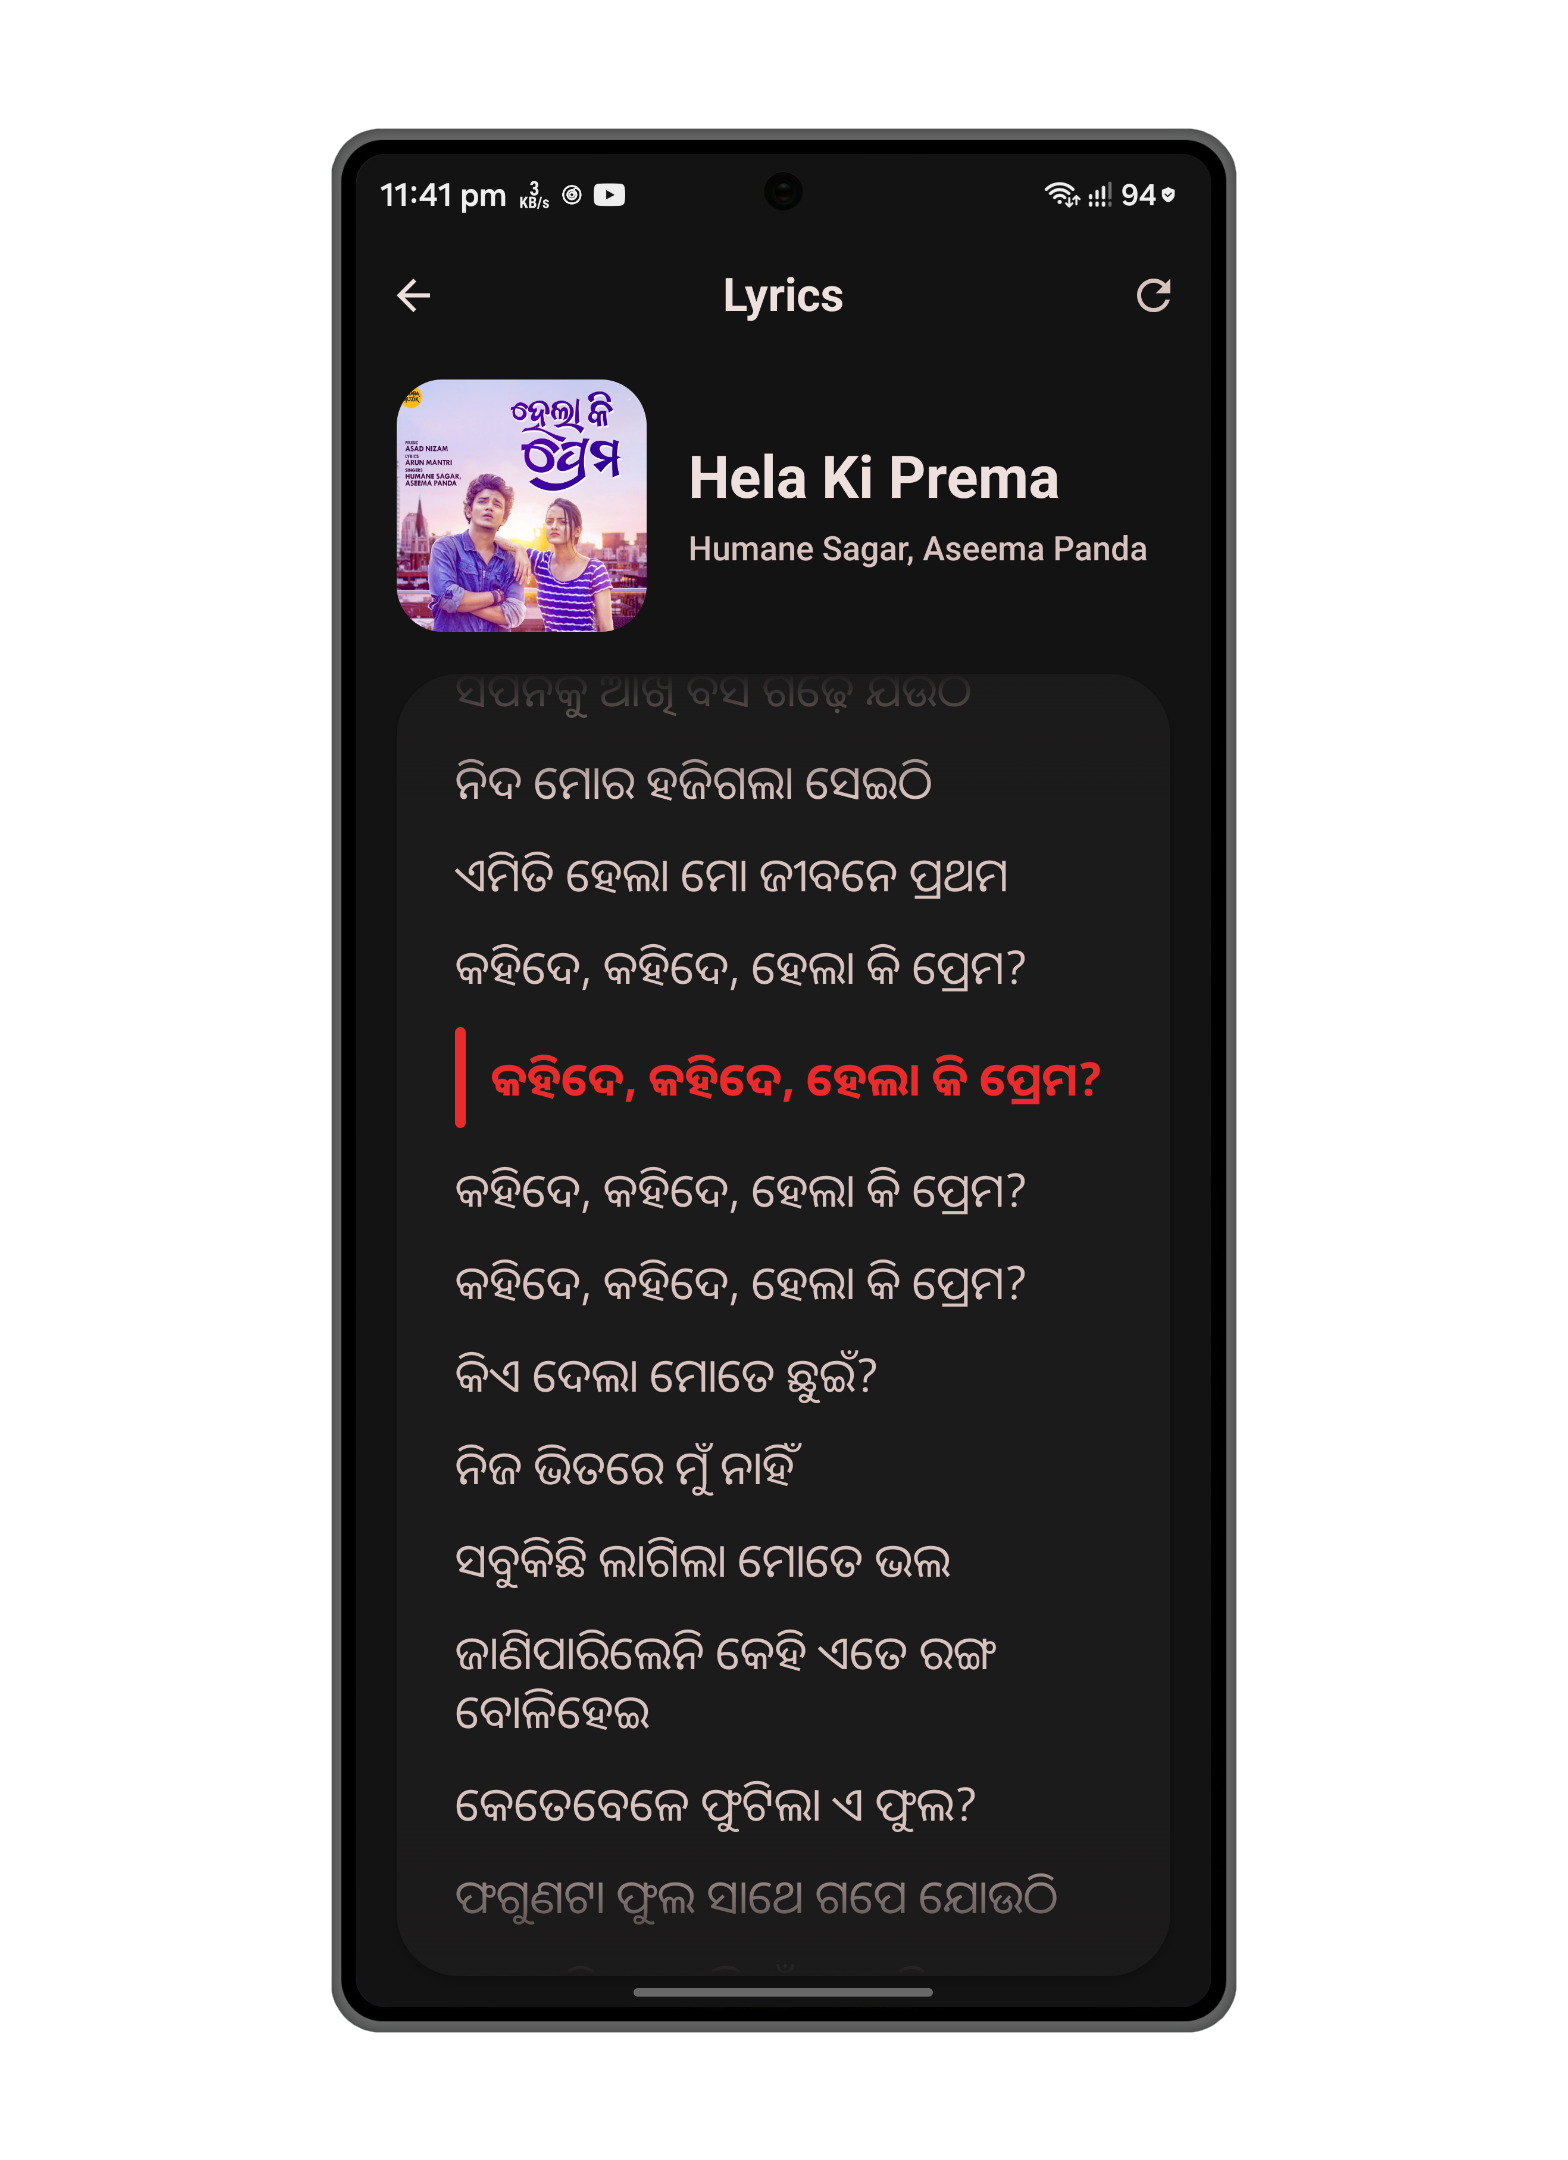
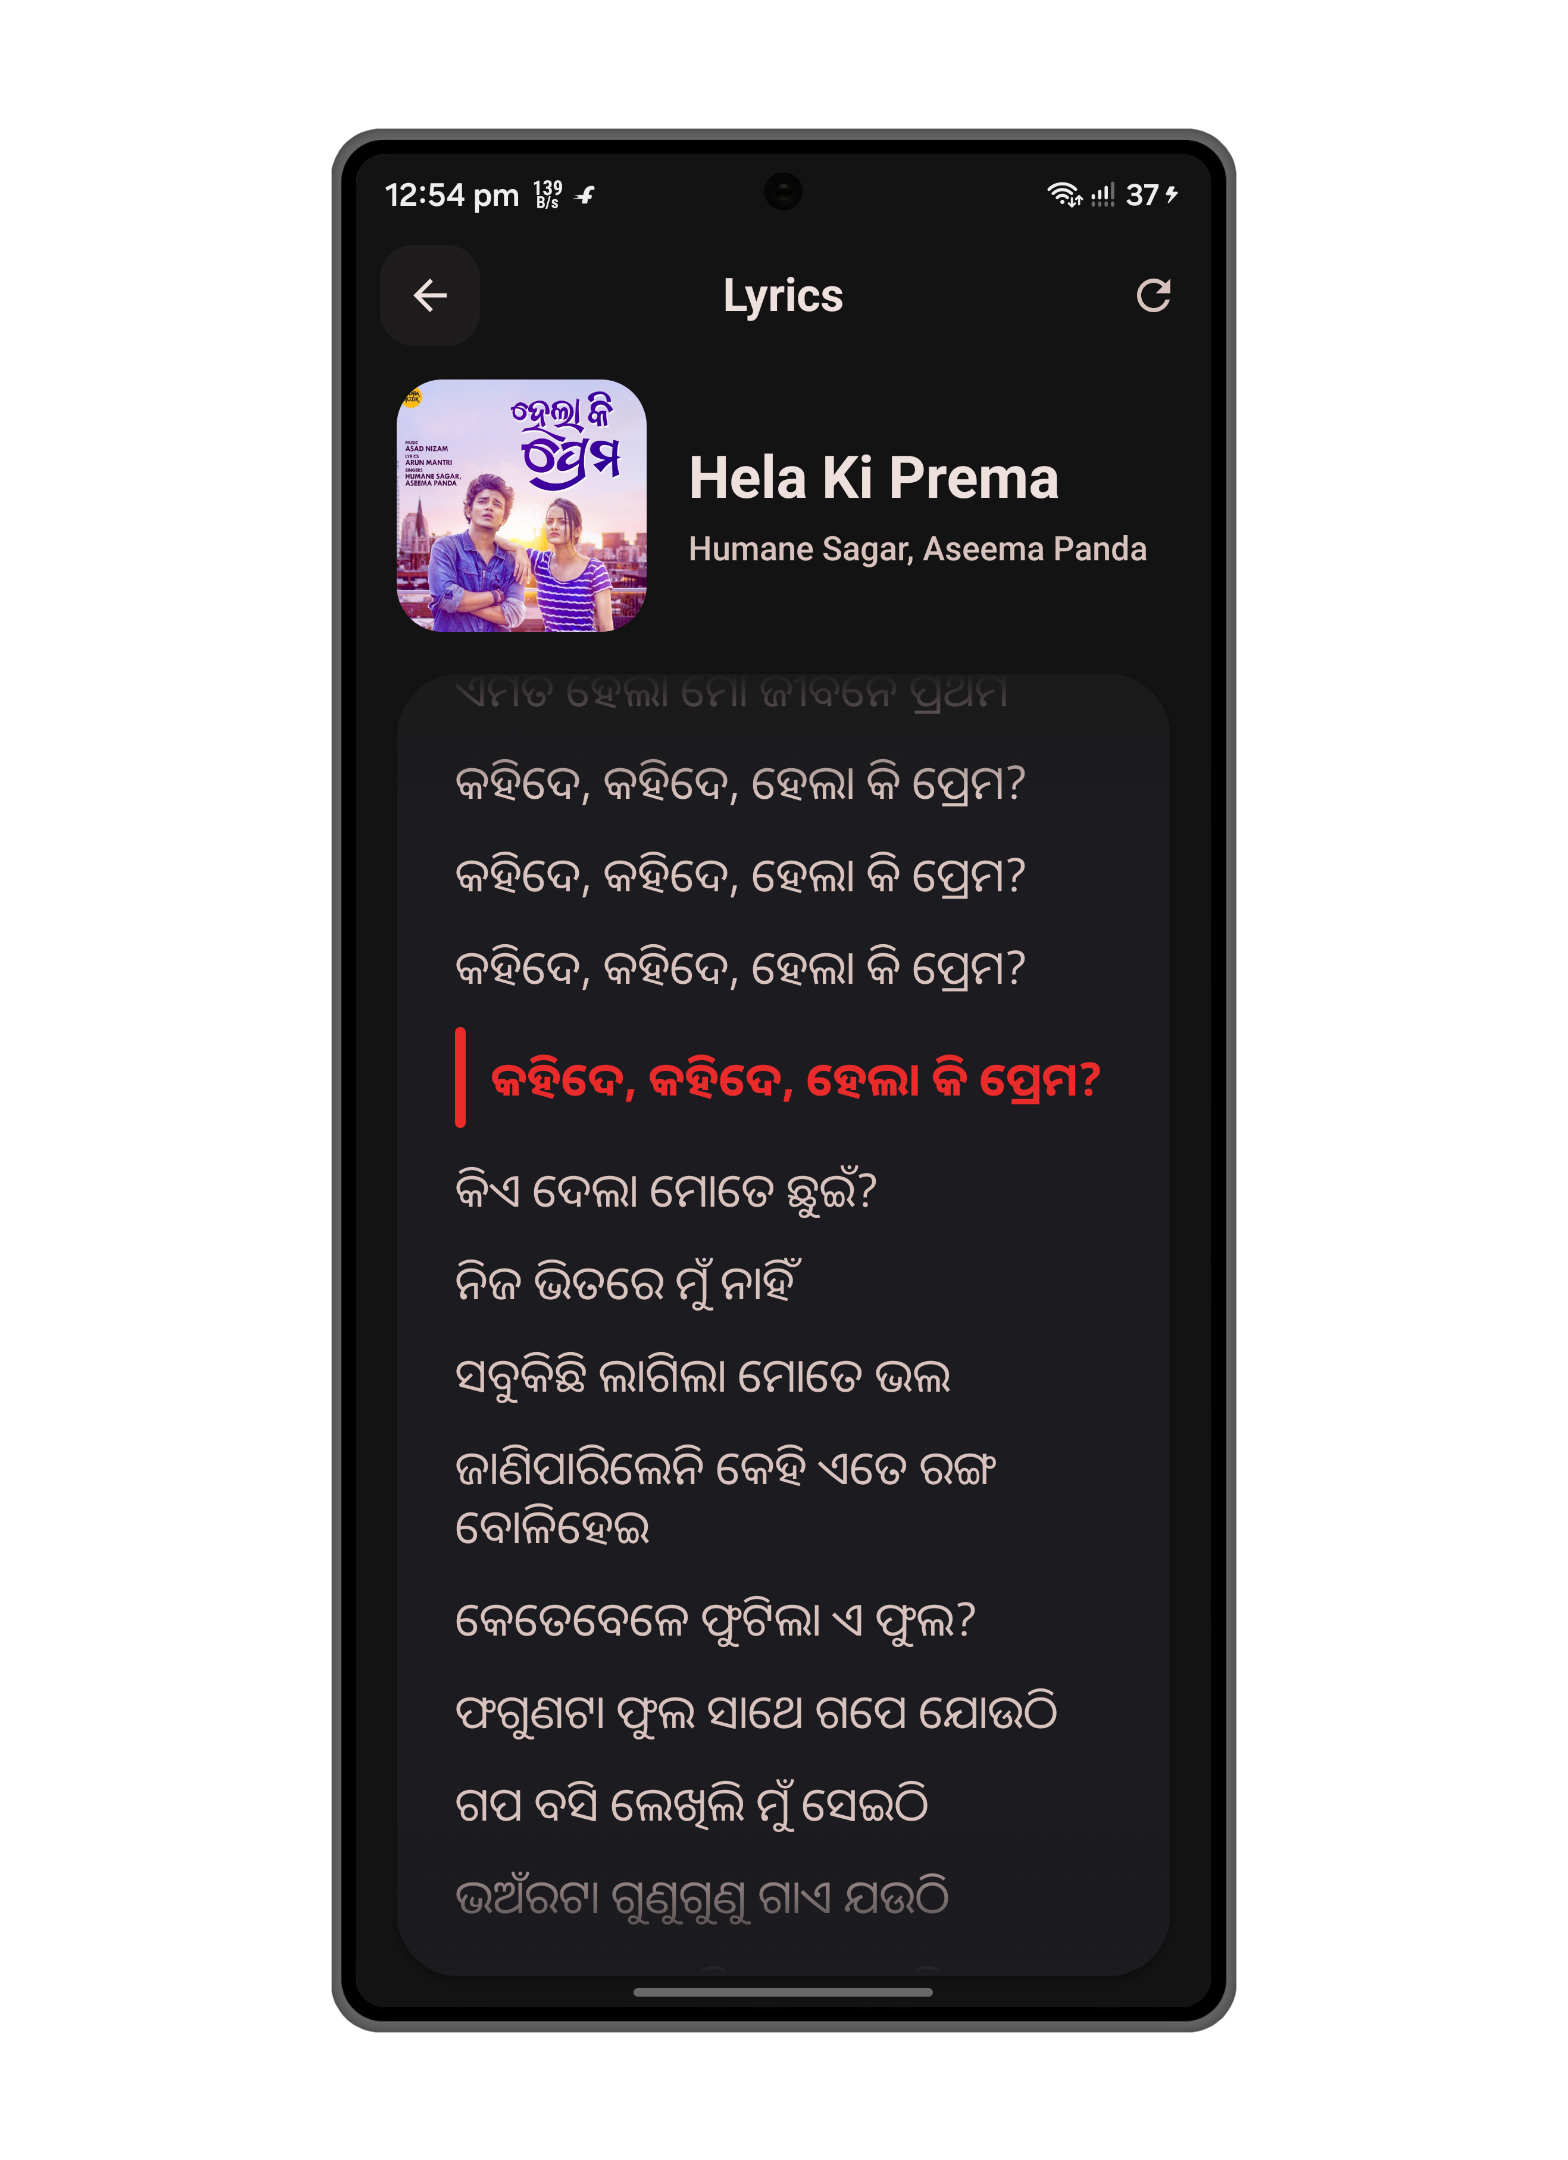
docs: refresh README screenshots and branding
- Refresh README screenshots and app branding assets
- Update documentation and image references

diff --git a/README.md b/README.md
@@ -1,7 +1,7 @@
 <div align="center">
 
 <p align="center">
-  <img src=".github/assets/banner.png" alt="Sonora" width="100%">
+  <img src=".github/assets/sonora_banner.png" alt="Sonora logo" width="70%">
 </p>
 
 A beautiful, privacy-friendly music player for Android, built around your local library.
@@ -52,32 +52,38 @@ streaming service.
   <img src=".github/assets/onboarding-permission.png" width="31%" alt="Sonora permission onboarding">
 </p>
 
+### Home
+
+<p align="center">
+  <img src=".github/assets/home_idle.png" width="31%" alt="Sonora Home with playback idle">
+  <img src=".github/assets/home_play.png" width="31%" alt="Sonora Home during playback">
+  <img src=".github/assets/home_recent.png" width="31%" alt="Sonora recently added and listening history">
+</p>
+
 ### Library
 
 <p align="center">
-  <img src=".github/assets/home.png" width="31%" alt="Sonora home">
   <img src=".github/assets/songs.png" width="31%" alt="Sonora songs">
   <img src=".github/assets/albums.png" width="31%" alt="Sonora albums">
-</p>
-
-<p align="center">
   <img src=".github/assets/artists.png" width="31%" alt="Sonora artists">
 </p>
 
 ### Playback
 
 <p align="center">
-  <img src=".github/assets/now-playing.png" width="31%" alt="Sonora now playing">
+  <img src=".github/assets/nowplaying.png" width="31%" alt="Sonora Now Playing screen">
+  <img src=".github/assets/nowplaying_more.png" width="31%" alt="Sonora Now Playing additional controls">
   <img src=".github/assets/lyrics.png" width="31%" alt="Sonora lyrics">
 </p>
 
-### Personalization
+### Settings & Personalization
 
 <p align="center">
   <img src=".github/assets/settings.png" width="31%" alt="Sonora settings">
-  <img src=".github/assets/settings-synamic-color.png" width="31%" alt="Sonora dynamic color settings">
-  <img src=".github/assets/settings-about.png" width="31%" alt="About page">
+  <img src=".github/assets/permissions.png" width="31%" alt="Sonora permission management">
+  <img src=".github/assets/about.png" width="31%" alt="Sonora About screen">
 </p>
+
 
 ---
 
@@ -86,17 +92,21 @@ streaming service.
 ### Local Library
 
 - Scan and browse music stored on the device
-- Songs, albums and artists
-- Album and artist detail pages
+- Search your local music library
+- Songs, albums and artists with dedicated detail pages
 - Playlists and favorites
+- Recently added tracks and continue-listening history on Home
 - Album artwork and local metadata
-- Recently added music
 
 ### Playback
 
 - Play, pause, previous and next
 - Queue management
 - Shuffle and repeat modes
+- Gapless playback between tracks
+- Adjustable crossfade transitions
+- Optional resume playback from where you left off
+- Optional ReplayGain volume normalization
 - Seeking with an expressive playback control
 - Playback speed control
 - Background playback
@@ -113,9 +123,9 @@ streaming service.
 
 ### Metadata
 
-- View local track metadata
-- Edit supported music metadata
-- Album artwork and track information
+- View local track metadata and audio format information
+- Edit tags including title, artist, album artist, genre, year, track/disc number, composer, comments, grouping, lyrics, copyright, and BPM
+- Add, change, or remove embedded album artwork
 
 ### Personalization
 
@@ -127,9 +137,10 @@ streaming service.
 
 ### Android Integration
 
-- Media3-based playback service
-- Background playback
-- System media controls and notifications
+- Media3-based playback service and background playback
+- System media controls and playback notifications
+- Open audio files directly from compatible file managers
+- Permission management for music, artwork/photos, notifications, metadata editing, and media deletion
 - WorkManager-based update flow
 - First-launch onboarding and media permission flow
 
@@ -186,7 +197,7 @@ feature set.
 | Background work    | WorkManager 2.11.2           |
 | Image loading      | Coil 3.6.3                   |
 | Lyrics             | LRCLIB                       |
-| Metadata           | JAudioTagger 3.0.1           |
+| Metadata           | jaudiotagger-kt 1.0.0        |
 | Serialization      | Kotlinx Serialization 1.11.0 |
 | Build              | Gradle + AGP 9.4.0           |
 | Java               | Java 17                      |
@@ -197,39 +208,68 @@ feature set.
 
 ## Project Structure
 
-~~~text
+```text
 app/
+├── build.gradle.kts
 └── src/
     ├── main/
+    │   ├── AndroidManifest.xml
     │   ├── kotlin/com/sipun/sonora/
+    │   │   ├── MainActivity.kt
     │   │   ├── core/
+    │   │   │   └── update/
     │   │   ├── data/
     │   │   │   ├── lyrics/
     │   │   │   ├── media/
     │   │   │   └── preferences/
     │   │   ├── domain/
+    │   │   │   ├── model/
+    │   │   │   └── repository/
     │   │   ├── feature/
     │   │   │   ├── album/
     │   │   │   ├── artist/
     │   │   │   ├── favorites/
     │   │   │   ├── home/
+    │   │   │   │   ├── HomeScreen.kt
+    │   │   │   │   ├── HomeOverview.kt
+    │   │   │   │   ├── HomeOverviewComponents.kt
+    │   │   │   │   ├── HomeLibraryContent.kt
+    │   │   │   │   ├── HomePlaylistContent.kt
+    │   │   │   │   └── HomeScreenEmptyStates.kt
     │   │   │   ├── library/
     │   │   │   ├── lyrics/
     │   │   │   ├── nowplaying/
+    │   │   │   │   ├── NowPlayingScreen.kt
+    │   │   │   │   ├── NowPlayingComponents.kt
+    │   │   │   │   ├── NowPlayingVisuals.kt
+    │   │   │   │   └── PlaybackTimeFormatter.kt
     │   │   │   ├── playlists/
     │   │   │   └── settings/
+    │   │   │       ├── SettingsScreen.kt
+    │   │   │       └── SettingsComponents.kt
     │   │   ├── navigation/
     │   │   ├── player/
     │   │   └── ui/
+    │   │       ├── components/
     │   │       ├── onboarding/
-    │   │       └── theme/
+    │   │       │   ├── WelcomeScreen.kt
+    │   │       │   └── WelcomeVisuals.kt
+    │   │       ├── theme/
+    │   │       └── update/
     │   └── res/
+    │       ├── drawable/
+    │       ├── mipmap-anydpi-v26/
+    │       ├── raw/
+    │       ├── values/
+    │       └── xml/
     ├── test/
     └── androidTest/
-~~~
+```
 
-The project is organized around feature-focused Compose UI, shared AndroidX/data layers, and a
-dedicated playback layer.
+- **Feature UI:** Screens are grouped by feature, with supporting UI extracted into focused files.
+- **Shared UI:** Reusable components live under `ui/components/`; onboarding visuals and theme code have their own packages.
+- **Data and domain:** Local media, metadata, preferences, lyrics, and domain models are kept separate from feature screens.
+- **Playback and updates:** Media3 playback lives under `player/`; update handling is grouped under `core/update/`.
 
 ---
 
